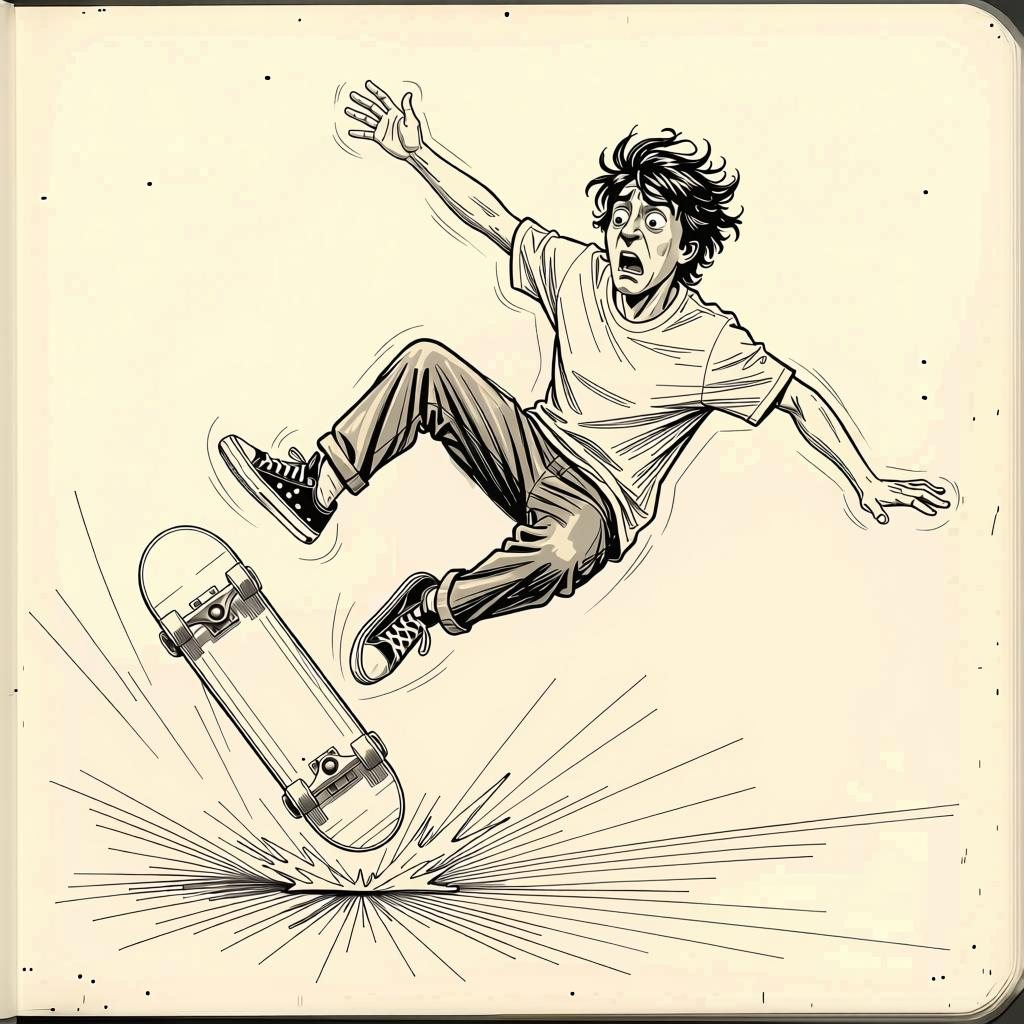
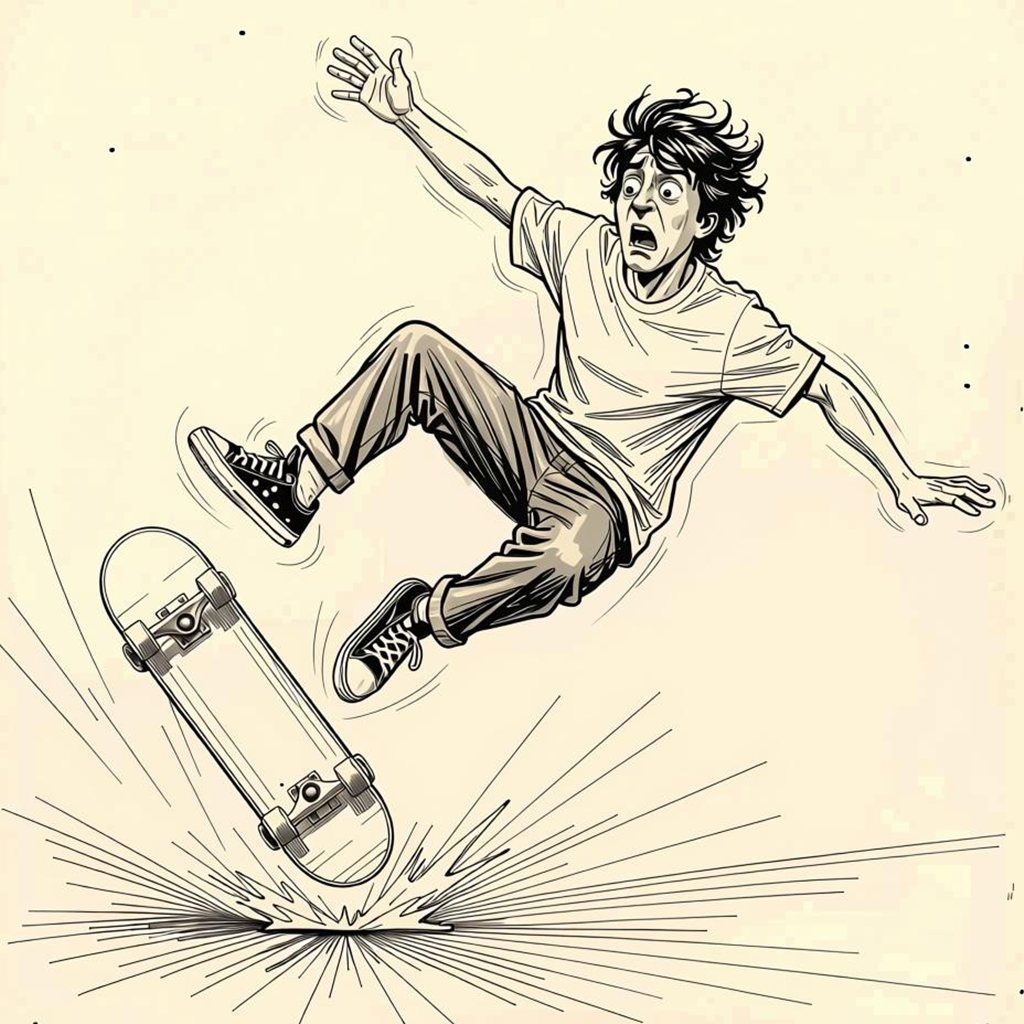
Add 30-second version card, link previews, and cleanup
Add a "short on time?" button (under the title and fixed top-left)
that opens an index-card dialog telling the whole story in five lines.
Add a meta description and Open Graph/Twitter tags for link previews.
Crop the notebook edge off trick panels 1-2, add prompts for the
remaining images, and stop tracking the raw Genpics/ generations.

diff --git a/index.html b/index.html
@@ -3,7 +3,20 @@
 <head>
 <meta charset="UTF-8">
 <meta name="viewport" content="width=device-width, initial-scale=1.0">
-<title>LIFE FLIP</title>
+<title>LIFE FLIP — from the Chipotle line to IT AVP</title>
+<meta name="description" content="A hand-drawn story of a career in tech: from the Chipotle line to IT AVP, one variable at a time. Try. Change one variable. Write it down. Make it easier for the next person.">
+<meta name="theme-color" content="#f3ecdf">
+
+<!-- Link previews (LinkedIn, iMessage, Slack, X).
+     LinkedIn needs og:image as a full URL. Once the site is hosted, replace
+     the relative path below with e.g. https://<your-site>/assets/trick-5.jpg
+     and add <meta property="og:url" content="https://<your-site>/">. -->
+<meta property="og:type" content="website">
+<meta property="og:title" content="Life Flip — one career, one trick at a time">
+<meta property="og:description" content="From the Chipotle line to IT AVP. Try. Change one variable. Write it down. Make it easier for the next person.">
+<meta property="og:image" content="assets/trick-5.jpg">
+<meta property="og:image:alt" content="Pencil sketch of a skateboarder rolling away after landing a kickflip">
+<meta name="twitter:card" content="summary_large_image">
 <link href="https://fonts.googleapis.com/css2?family=Caveat:wght@400;600;700&family=VT323&display=swap" rel="stylesheet">
 <style>
 /* ==========================================================================
@@ -77,6 +90,119 @@ body {
   border-radius: 4px;
 }
 #motion-toggle:hover { opacity: 1; }
+
+/* ==========================================================================
+   SHORT ON TIME — 30-second version
+   ========================================================================== */
+
+.short-btn {
+  font-family: 'Caveat', cursive;
+  font-size: 20px;
+  color: var(--teal);
+  background: none;
+  border: none;
+  border-bottom: 1px dashed var(--teal);
+  padding: 4px 2px;
+  cursor: pointer;
+  min-height: 44px;
+}
+.short-btn:hover { color: var(--ink); border-color: var(--ink); }
+
+#short-toggle {
+  position: fixed;
+  top: 6px; left: 12px;
+  z-index: 1001;
+  background: var(--paper);
+  padding: 4px 8px;
+  border-radius: 4px;
+  opacity: 0.85;
+  transition: opacity 0.3s;
+}
+#short-toggle.on-opening {
+  opacity: 0;
+  pointer-events: none;
+}
+
+#short-version {
+  border: none;
+  padding: 0;
+  margin: auto; /* the global reset strips the dialog's default centering */
+  background: transparent;
+  max-width: min(520px, 92vw);
+  width: 100%;
+  max-height: 92vh;
+  overflow-x: hidden;
+  overflow-y: auto;
+}
+#short-version::backdrop {
+  background: rgba(58, 53, 48, 0.45);
+}
+
+/* Index card: ruled lines, red margin line */
+.short-card {
+  position: relative;
+  background:
+    linear-gradient(to right, transparent 38px, rgba(192,57,43,0.35) 38px, rgba(192,57,43,0.35) 39px, transparent 39px),
+    repeating-linear-gradient(to bottom, white 0, white 25px, rgba(46,196,182,0.18) 25px, rgba(46,196,182,0.18) 26px, white 26px, white 30px);
+  /* Every block is a multiple of 30px so text sits on the ruled lines */
+  padding: 30px 24px 30px 52px;
+  border-radius: 3px;
+  box-shadow: 0 8px 30px rgba(0,0,0,0.25);
+  color: var(--ink);
+}
+
+.short-close {
+  position: absolute;
+  top: 6px; right: 8px;
+  background: none;
+  border: none;
+  font-size: 30px;
+  line-height: 1;
+  color: var(--pencil);
+  cursor: pointer;
+  min-width: 44px;
+  min-height: 44px;
+}
+.short-close:hover { color: var(--ink); }
+
+.short-title {
+  font-family: 'Caveat', cursive;
+  font-weight: 700;
+  font-size: clamp(28px, 6vw, 36px);
+  line-height: 30px;
+  margin: 0 0 30px;
+}
+
+.short-list {
+  font-family: 'VT323', monospace;
+  font-size: clamp(17px, 3.4vw, 21px);
+  line-height: 30px;
+  padding-left: 20px;
+  margin: 0 0 30px;
+}
+.short-list li { margin: 0; }
+.short-list b {
+  font-family: 'Caveat', cursive;
+  font-size: 1.15em;
+  color: var(--teal);
+}
+
+.short-mission {
+  font-family: 'Caveat', cursive;
+  font-weight: 700;
+  font-size: clamp(22px, 5vw, 28px);
+  line-height: 30px;
+  margin: 0 0 30px;
+}
+
+.short-actions {
+  display: flex;
+  flex-wrap: wrap;
+  gap: 12px 20px;
+  align-items: center;
+}
+
+.opening-short { margin-top: 18px; }
 
 /* ==========================================================================
    MOMENTS — full-width sections, vertical scroll
@@ -1002,6 +1128,28 @@ body.reduced-motion * {
   Motion: ON
 </button>
 
+<button id="short-toggle" class="short-btn" onclick="openShortVersion()" aria-haspopup="dialog">short on time?</button>
+
+<!-- 30-SECOND VERSION — the whole story on one index card -->
+<dialog id="short-version" aria-labelledby="short-title">
+  <div class="short-card">
+    <button class="short-close" onclick="closeShortVersion()" aria-label="Close the short version">&times;</button>
+    <div class="short-title" id="short-title">The 30-second version</div>
+    <ol class="short-list">
+      <li><b>The Line.</b> Started on the Chipotle line. Learned that speed is a kindness.</li>
+      <li><b>The Trick.</b> Watched a skater bail on a kickflip again and again, changing one thing each try until he landed it. That's troubleshooting.</li>
+      <li><b>The Bet.</b> Left a steady paycheck to start over in tech at zero.</li>
+      <li><b>The Climb.</b> Splunk release pipeline &rarr; field IT &rarr; 6&frac12; years at First Republic &rarr; the JPMorganChase migration &rarr; AVP at Citizens.</li>
+      <li><b>The Method.</b> Try. Change one variable. Write it down. Make it easier for the next person.</li>
+    </ol>
+    <div class="short-mission">I make tech easier for everyone.</div>
+    <div class="short-actions">
+      <a class="footer-link" href="https://www.linkedin.com/in/saneaux" target="_blank" rel="noopener noreferrer">LinkedIn &#8599;</a>
+      <button class="short-btn" onclick="closeShortVersion(true)">read the full story &darr;</button>
+    </div>
+  </div>
+</dialog>
+
 <!-- ======================================================================
      MOMENTS — continuous vertical scroll
      ====================================================================== -->
@@ -1014,6 +1162,7 @@ body.reduced-motion * {
     <span>begin</span>
     <span class="arrow-icon">&#8595;</span>
   </a>
+  <button class="short-btn opening-short" onclick="openShortVersion()" aria-haspopup="dialog">short on time? the 30-second version</button>
 </section>
 
 <!-- MOMENT 2: THE LINE -->
@@ -1611,6 +1760,37 @@ function handleFixChoice(index) {
 // ==========================================================================
 // REDUCED MOTION TOGGLE
 // ==========================================================================
+
+// ==========================================================================
+// SHORT ON TIME — 30-second version dialog
+// ==========================================================================
+
+function openShortVersion() {
+  const dlg = document.getElementById('short-version');
+  if (dlg && !dlg.open) dlg.showModal();
+}
+
+function closeShortVersion(startStory) {
+  const dlg = document.getElementById('short-version');
+  if (dlg && dlg.open) dlg.close();
+  // From the title screen, "read the full story" starts the scroll
+  if (startStory && window.scrollY < window.innerHeight / 2) {
+    document.getElementById('moment-the-line').scrollIntoView({ behavior: 'smooth' });
+  }
+}
+
+// Hide the corner button while the title screen (with its own button) is showing
+function updateShortToggle() {
+  const t = document.getElementById('short-toggle');
+  if (t) t.classList.toggle('on-opening', window.scrollY < window.innerHeight * 0.6);
+}
+window.addEventListener('scroll', updateShortToggle, { passive: true });
+updateShortToggle();
+
+// Click on the dimmed backdrop closes the card
+document.getElementById('short-version').addEventListener('click', (e) => {
+  if (e.target.id === 'short-version') closeShortVersion();
+});
 
 function toggleMotion() {
   const body = document.body;

diff --git a/trick-panel-prompts.md b/trick-panel-prompts.md
@@ -88,3 +88,52 @@ more height and time to catch.
 > the bolts, knees softly bent, shoulders level, arms relaxed, a small satisfied grin.
 > All four wheels are on the ground, with horizontal speed lines trailing behind. No
 > inset diagram, or a tiny one with a check mark next to the final foot setup.
+
+---
+
+# More images (new ink style)
+
+The trick panels now use crisp ink hatching (see `assets/trick-4.jpg`). Use the block
+below for any new image so the whole page matches, and upload `assets/trick-5.jpg`
+as the character and style reference.
+
+## Ink style block (paste at the start of each prompt)
+
+> Same character and drawing style as the reference image. Ink and pencil
+> illustration with fine cross-hatching on plain warm cream paper. Monochrome,
+> no color, no text, no lettering, no logos, no notebook frame or border.
+
+## The Line: `assets/the-line.jpg` (wide, 3:2)
+
+> [ink style block] A young man in a cap and apron working a fast-casual burrito
+> counter during a lunch rush: one hand holding a tortilla, the other reaching for a
+> scoop, steam rising from the food line, a long queue of customers in loose sketch
+> behind the glass sneeze guard. Focused, quick, kind expression. Generic restaurant:
+> no logos or brand names. Motion lines around his hands to show speed.
+
+## The Bet: `assets/the-bet.jpg` (wide, 3:2)
+
+> [ink style block] The same young man, now in a plain t-shirt, walking away from a
+> break-room table where three coworkers in aprons sit and watch him go. He carries
+> a skateboard under one arm and looks ahead toward an open doorway with bright
+> light coming through. The coworkers are sketched lightly; he is drawn in the most
+> detail. Hopeful, a little nervous.
+
+## The Climb: `assets/the-climb.jpg` (wide, 3:2), optional restyle
+
+> [ink style block] A winding road climbing a hillside, seen from a distance. Along
+> the road, in order from the bottom: a small watchtower, a low warehouse with
+> cables and server racks visible through a doorway, a tall office tower, a patch
+> of storm clouds with rain over a bridge, and at the top a calm summit with a
+> small figure carrying a skateboard. Loose pencil motion lines on the road.
+
+## Small doodle icons (square, 1:1, generate as one sheet)
+
+> [ink style block] A sheet of nine small, simple doodle icons in a 3×3 grid with
+> lots of space between them, each drawn in quick ink lines like a sketchbook
+> margin: an eye, a keyboard, a checked checkbox, a pencil, a burrito, a
+> skateboard, a watchtower, a laptop with a small status light, a rising sun.
+> Same line weight for all, no shading, plain cream background.
+
+Send me the sheet and I'll cut it into separate icons for the clippings and the
+Climb's waypoint dots.

diff --git a/CLAUDE.md b/CLAUDE.md
@@ -50,6 +50,7 @@ pixel-tricks/
 - **Fix beat** — 3 clickable options (`FIX_OPTIONS`, each with its own BAIL/LANDED note), wrong→gray+note, correct→green+stamp
 - **Changed-variable notes** — `variable` on storyboard panels and `changed` on climb waypoints render as teal handwritten "↻ changed →" notes
 - **Auto-scroll chain**: Opening arrow → The Line → Storyboard end → Realization → The Bet → Fix beat correct → Footer
+- **30-second version** — `<dialog id="short-version">` index card with the whole story in 5 lines; opened by "short on time?" under the title and a fixed top-left button (hidden on the title screen)
 - **Reduced-motion toggle** — respects `prefers-reduced-motion`, toggle button top-right
 - **Party touch reveal** — `initPartyTouchReveal()` for mobile tap-to-show bubbles
 
@@ -60,3 +61,5 @@ pixel-tricks/
 - 7 clipping icons are Unicode placeholders, could be replaced with hand-drawn art
 - 5 waypoint icons in the climb are simple colored dots inside circles
 - Google Fonts loaded via CDN — for offline use, self-host the font files
+- `Genpics/` holds raw image generations and is git-ignored; finished images go in `assets/`. Prompts for every image live in `trick-panel-prompts.md`
+- Link-preview `og:image` is a relative path until the site has a hosted URL (LinkedIn needs an absolute one)
